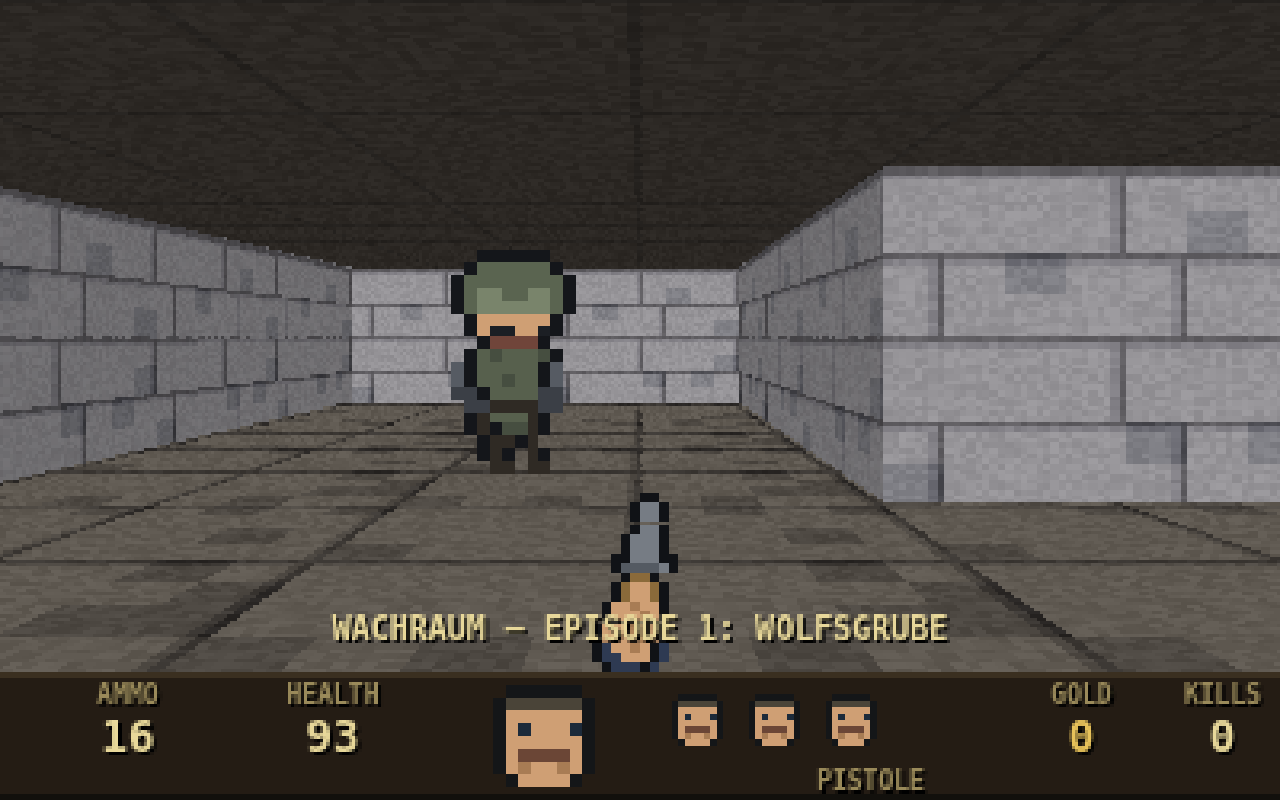
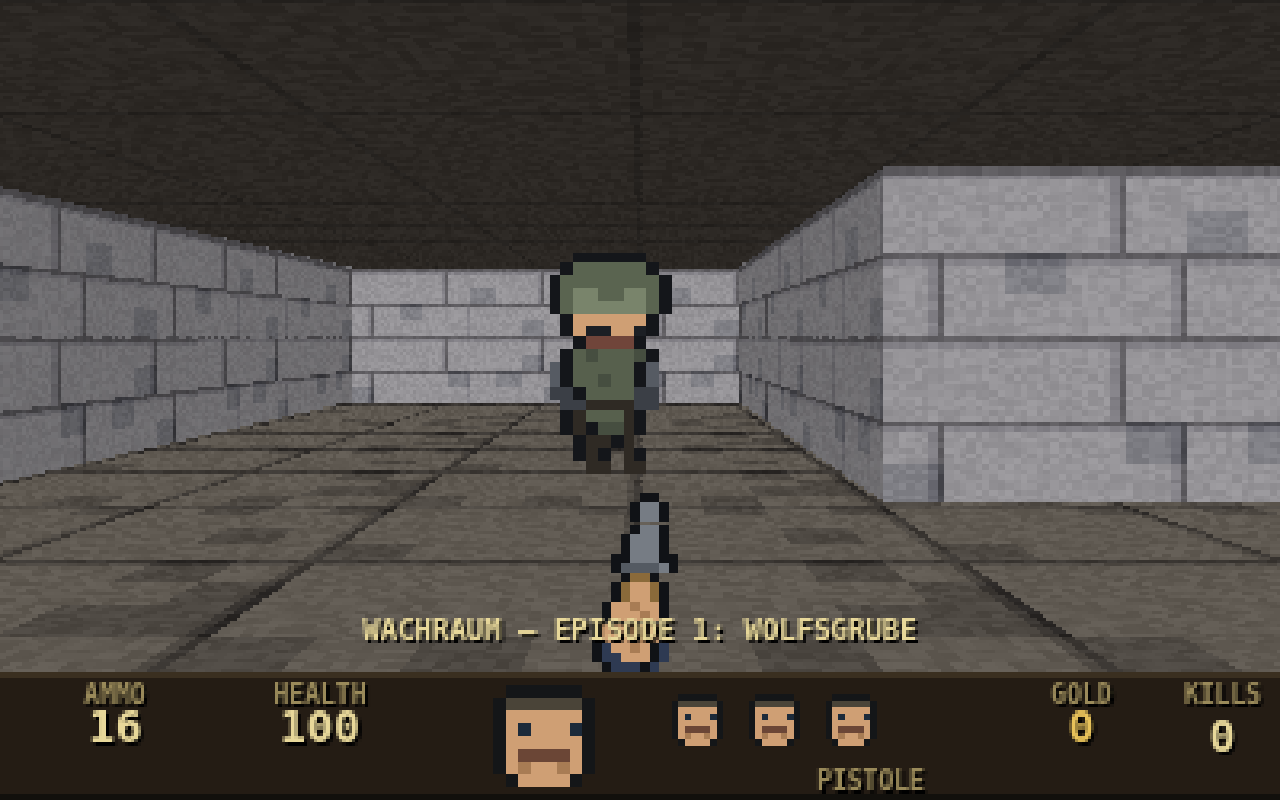
Wolfenstein 3D mobile fix: portrait phones now get the whole screen instead of a letterboxed strip — internal resolution tracks screen aspect (pickRes/applyAutoRes, resize-aware), tall displays switch to a pinhole-consistent camera (PLANE/VF) so walls and sprites keep square proportions, HUD bar hei

diff --git a/examples/wolfenstein/index.html b/examples/wolfenstein/index.html
@@ -60,14 +60,45 @@ const STARTMAP=clamp(parseInt(params.get('map')||'0',10)||0,0,2);
 // ---------- canvas / buffers ----------
 const cv=document.getElementById('c'), ctx=cv.getContext('2d');
 let W=400,H=250,BAR=40,VH=H-BAR;
+let PLANE=0.66,VF=210;
 let img,buf32,zbuf;
 function setRes(w,h){
-  W=w;H=h;BAR=Math.round(H*0.16);VH=H-BAR;
+  W=w;H=h;
+  BAR=Math.round(Math.min(H*0.16,W*0.20)); // keep the bar proportional to the narrow axis
+  if(BAR<28)BAR=28;
+  VH=H-BAR;
+  // on tall screens use a pinhole-consistent camera (equal horizontal/vertical
+  // focal lengths) so nothing stretches; wide displays keep the classic look
+  const tall=VH>W*1.3;
+  PLANE=tall?clamp(W/VH,0.35,0.9):0.66;
+  VF=tall?VH/2:VH;
   cv.width=W;cv.height=H;
   img=ctx.createImageData(W,H);buf32=new Uint32Array(img.data.buffer);
   zbuf=new Float32Array(W);
 }
-if(FORCE_RES>=200)setRes(FORCE_RES,Math.round(FORCE_RES*0.625));else setRes(400,250);
+// pick an internal resolution matching the screen's aspect, so portrait
+// phones fill the whole screen instead of letterboxing into a tiny strip
+let qK=1; // quality step: 1, then 0.64 when frames run slow
+function pickRes(k){
+  const ar=clamp(window.innerWidth/Math.max(1,window.innerHeight),0.4,2.2);
+  let w=Math.round(400*k),h=Math.round(w/ar);
+  if(h>520*k){h=Math.round(520*k);w=Math.round(h*ar);}
+  if(w*h>112000*k*k){const f=Math.sqrt(112000*k*k/(w*h));w=Math.round(w*f);h=Math.round(h*f);}
+  return[w,h];
+}
+function applyAutoRes(){const[w,h]=pickRes(qK);setRes(w,h);}
+if(FORCE_RES>=200)setRes(FORCE_RES,Math.round(FORCE_RES*0.625));else applyAutoRes();
+let rzT=0;
+window.addEventListener('resize',()=>{
+  if(FORCE_RES>=200)return;
+  clearTimeout(rzT);rzT=setTimeout(applyAutoRes,120);
+});
+// screen coords -> canvas buffer coords (for touch overlays)
+function canvasPt(cx,cy){
+  const r=cv.getBoundingClientRect();
+  const s=Math.min(r.width/W,r.height/H);
+  return[(cx-r.left-(r.width-W*s)/2)/s,(cy-r.top-(r.height-H*s)/2)/s];
+}
 
 // ---------- textures (64x64 Uint32) ----------
 const TS=64;
@@ -666,7 +697,7 @@ function computeFlow(){
 }
 
 // ---------- audio ----------
-let AC=null,master=null,dbg={audioErr:'',shots:0};
+let AC=null,master=null,dbg={audioErr:'',shots:0,freeze:false};
 function audioInit(){
   if(AC)return;
   try{
@@ -742,6 +773,14 @@ window.addEventListener('mouseup',()=>{mouse.down=false;});
 const isTouch=('ontouchstart'in window)||navigator.maxTouchPoints>0;
 if(isTouch)document.body.classList.add('touch');
 const stick={id:-1,ox:0,oy:0,dx:0,dy:0}, look={id:-1,lx:0};
+function stickSet(t){
+  const R=Math.max(48,innerWidth*0.16);
+  let dx=(t.clientX-stick.ox)/R, dy=(t.clientY-stick.oy)/R;
+  const m=Math.hypot(dx,dy);
+  if(m>1){dx/=m;dy/=m;}
+  if(m<0.16){dx=0;dy=0;} // dead zone so a resting thumb doesn't creep
+  stick.dx=dx;stick.dy=dy;
+}
 cv.addEventListener('touchstart',e=>{
   if(state==='boot'){start();return;}
   for(const t of e.changedTouches){
@@ -752,10 +791,8 @@ cv.addEventListener('touchstart',e=>{
 },{passive:false});
 cv.addEventListener('touchmove',e=>{
   for(const t of e.changedTouches){
-    if(t.identifier===stick.id){
-      stick.dx=clamp((t.clientX-stick.ox)/(innerWidth*0.08),-1,1);
-      stick.dy=clamp((t.clientY-stick.oy)/(innerWidth*0.08),-1,1);
-    }else if(t.identifier===look.id){P.a+=(t.clientX-look.lx)*0.006;look.lx=t.clientX;}
+    if(t.identifier===stick.id)stickSet(t);
+    else if(t.identifier===look.id){P.a+=(t.clientX-look.lx)*0.006;look.lx=t.clientX;}
   }
   e.preventDefault();
 },{passive:false});
@@ -767,10 +804,23 @@ function touchEnd(e){
 }
 cv.addEventListener('touchend',touchEnd);cv.addEventListener('touchcancel',touchEnd);
 const btnFire=document.getElementById('btnFire'), btnUse=document.getElementById('btnUse');
-let fireHeld=false;
-btnFire.addEventListener('touchstart',e=>{e.preventDefault();audioInit();fireHeld=true;fireTapT=0.4;},{passive:false});
-btnFire.addEventListener('touchend',e=>{e.preventDefault();fireHeld=false;},{passive:false});
-btnUse.addEventListener('touchstart',e=>{e.preventDefault();if(state==='play')useAction();},{passive:false});
+let fireHeld=false, fireId=-1;
+btnFire.addEventListener('touchstart',e=>{
+  e.preventDefault();audioInit();
+  if(state==='boot'){start();return;}
+  fireHeld=true;fireTapT=0.4;
+  if(e.changedTouches.length)fireId=e.changedTouches[0].identifier;
+},{passive:false});
+btnFire.addEventListener('touchend',e=>{e.preventDefault();if(e.changedTouches.length&&e.changedTouches[0].identifier!==fireId)return;fireHeld=false;},{passive:false});
+// a cancelled gesture (iOS hijack) must never leave the trigger stuck
+window.addEventListener('touchcancel',e=>{
+  for(const t of e.changedTouches)if(t.identifier===fireId){fireHeld=false;fireId=-1;}
+});
+btnUse.addEventListener('touchstart',e=>{
+  e.preventDefault();audioInit();
+  if(state==='boot'){start();return;}
+  useAction();
+},{passive:false});
 document.getElementById('startBtn').addEventListener('click',start);
 
 // ---------- game state ----------
@@ -1010,8 +1060,7 @@ function stepEnemy(e,dx,dy){
 let dirX=1,dirY=0,plX=0,plY=0;
 function renderWorld(t){
   dirX=Math.cos(P.a);dirY=Math.sin(P.a);
-  const fov=0.66;
-  const planeX=-dirY*fov,planeY=dirX*fov;
+  const planeX=-dirY*PLANE,planeY=dirX*PLANE;
   const flick=1+Math.sin(t*7.3)*0.015+Math.sin(t*3.1)*0.02;
   const horizon=VH*0.5;
   // floor + ceiling cast
@@ -1019,7 +1068,7 @@ function renderWorld(t){
     const dy=y-horizon;
     if(dy===0){continue;}
     const below=y>horizon;
-    const rowDist=(0.5*VH)/Math.abs(dy);
+    const rowDist=(0.5*VF)/Math.abs(dy);
     const tex=below?texFloorBmp:texCeilBmp;
     const rdx0=dirX-planeX,rdy0=dirY-planeY;
     const rdx1=dirX+planeX,rdy1=dirY+planeY;
@@ -1051,7 +1100,7 @@ function renderWorld(t){
     }
     const dist=side===0?sdx-ddx:sdy-ddy;
     zbuf[x]=dist;
-    let lineH=VH/Math.max(0.0001,dist);
+    let lineH=VF/Math.max(0.0001,dist);
     let y0=horizon-lineH/2, y1=horizon+lineH/2;
     const ty0=y0<0?0:y0|0, ty1=y1>VH?VH:y1|0;
     const wallX=side===0?P.y+dist*rdy:P.x+dist*rdx;
@@ -1097,15 +1146,15 @@ function renderWorld(t){
 }
 function drawSprite(tex,ex,ey,sc,offY,flash,flick){
   const sx=ex-P.x,sy=ey-P.y;
-  const planeX=-dirY*0.66,planeY=dirX*0.66;
+  const planeX=-dirY*PLANE,planeY=dirX*PLANE;
   const invDet=1/(planeX*dirY-dirX*planeY);
   const tX=invDet*(dirY*sx-dirX*sy);
   const tY=invDet*(-planeY*sx+planeX*sy);
   if(tY<0.15)return;
   const scrX=(W*0.5)*(1+tX/tY);
-  const sizeY=Math.abs(VH/tY)*sc;
+  const sizeY=Math.abs(VF/tY)*sc;
   const sizeX=sizeY*(tex.w/tex.h);
-  const bot=VH*0.5+(0.5*VH)/tY;
+  const bot=VH*0.5+(0.5*VF)/tY;
   const top=bot-sizeY;
   const x0=Math.max(0,Math.ceil(scrX-sizeX/2)),x1=Math.min(W-1,Math.floor(scrX+sizeX/2));
   const y0=Math.max(0,Math.ceil(top)),y1=Math.min(VH-1,Math.floor(bot));
@@ -1125,7 +1174,7 @@ function drawSprite(tex,ex,ey,sc,offY,flash,flick){
 }
 function renderWeapon(t){
   const tex=P.gun===1?wpnMG:wpnPistol;
-  const s=P.gun===1?2.9:3.1;
+  const s=(P.gun===1?2.9:3.1)*(VH/210); // keep the gun the same share of the view in portrait
   const bob=Math.sin(P.bobT*2)*3*P.bobAmt;
   const kick=P.fireT>0.3?(P.gun?1:4):0;
   const wpx=tex.w*s,hpx=tex.h*s;
@@ -1143,7 +1192,7 @@ function renderWeapon(t){
   }
   if(gflash){
     // muzzle flash star near top of gun
-    const fx=Math.round(W*0.5+(P.gun===1?-W*0.18:0)),fy=Math.round(oy-2);
+    const fx=Math.round(W*0.5+(P.gun===1?-W*0.18:0)),fy=Math.round(oy-2*(VH/210));
     const r=6+Math.random()*5;
     for(let a=0;a<8;a++){
       const ang=a*Math.PI/4+Math.random();
@@ -1187,56 +1236,69 @@ function drawText(s,x,y,col,size){
   ctx.fillStyle=col;ctx.fillText(s,x,y);
 }
 function renderBar(t){
+  const narrow=W<320; // portrait phones: tighter columns, capped bar height
   const y0=VH;
   ctx.fillStyle='#241c14';ctx.fillRect(0,y0,W,BAR);
   ctx.fillStyle='#3a2f20';ctx.fillRect(0,y0,W,2);
   ctx.fillStyle='#12100c';ctx.fillRect(0,y0+BAR-2,W,2);
   const cy=y0+BAR*0.42;
+  const lab=Math.max(7,Math.round(BAR*0.2)),num=Math.round(BAR*0.34);
   ctx.textAlign='center';
-  drawText('AMMO',W*0.10,y0+10,'#9a8a5a',8);drawText(fmt(P.ammo),W*0.10,cy+8,'#e8d89a',Math.round(BAR*0.34));
-  drawText('HEALTH',W*0.26,y0+10,'#9a8a5a',8);drawText(fmt(Math.round(P.hp)),W*0.26,cy+8,P.hp<=25?'#e05040':'#e8d89a',Math.round(BAR*0.34));
-  drawText('GOLD',W*0.845,y0+10,'#9a8a5a',8);drawText(fmt(P.gold),W*0.845,cy+8,'#e8c25a',Math.round(BAR*0.34));
-  drawText('KILLS',W*0.955,y0+10,'#9a8a5a',8);drawText(fmt(P.kills),W*0.955,cy+8,'#e8d89a',Math.round(BAR*0.34));
+  drawText('AMMO',W*0.09,y0+Math.round(BAR*0.26),'#9a8a5a',lab);drawText(fmt(P.ammo),W*0.09,cy+Math.round(BAR*0.13),'#e8d89a',num);
+  drawText('HEALTH',W*0.25,y0+Math.round(BAR*0.26),'#9a8a5a',lab);drawText(fmt(Math.round(P.hp)),W*0.25,cy+Math.round(BAR*0.13),P.hp<=25?'#e05040':'#e8d89a',num);
+  if(!narrow)drawText('KILLS',W*0.955,y0+10,'#9a8a5a',8);
+  const gx=narrow?W*0.72:W*0.845;
+  drawText('GOLD',gx,y0+Math.round(BAR*0.26),'#9a8a5a',lab);drawText(fmt(P.gold),gx,cy+Math.round(BAR*0.13),'#e8c25a',num);
+  if(!narrow){drawText(fmt(P.kills),W*0.955,cy+8,'#e8d89a',Math.round(BAR*0.34));}
   // face
   let face=faceNorm;
   if(state==='dead'||P.hp<=0)face=faceDead;
   else if(P.hurtT>0.1)face=faceHit;
   else if(P.hp<=25)face=faceEvil;
-  const fs=Math.max(2,Math.floor((BAR-8)/faceNorm.h));
-  const fx=W*0.425-face.w*fs/2+(P.turnT?P.turnT*2:0);
+  const fs=Math.max(2,Math.floor(Math.min((BAR-8)/faceNorm.h,W*0.22/faceNorm.w)));
+  const fx=W*(narrow?0.46:0.425)-face.w*fs/2+(P.turnT?P.turnT*2:0);
   drawArtC(face,fx|0,y0+((BAR-face.h*fs)/2|0),fs);
   // lives as mini faces
-  const lf=Math.max(2,Math.round(BAR*0.06));
-  for(let i=0;i<Math.min(P.lives,4);i++)drawArtC(faceNorm,W*0.52+i*(faceNorm.w*lf+4)|0,y0+BAR*0.18|0,lf);
+  const lf=Math.max(2,Math.round(Math.min(BAR*0.06,fs*0.62)));
+  for(let i=0;i<Math.min(P.lives,narrow?2:4);i++)drawArtC(faceNorm,W*(narrow?0.56:0.52)+i*(faceNorm.w*lf+4)|0,y0+BAR*0.18|0,lf);
   // gold key icon
-  if(P.key)drawArtC(keyItem,W*0.345|0,y0+BAR*0.22|0,2);
+  if(P.key)drawArtC(keyItem,W*0.345|0,y0+BAR*0.22|0,narrow?1:2);
   // weapon name
-  drawText(P.gun===1?'KETTENGEWEHR':'PISTOLE',W*0.68,y0+BAR-3,'#9a8a5a',8);
+  drawText(P.gun===1?'KETTENGEWEHR':'PISTOLE',narrow?W*0.10:W*0.68,y0+BAR-Math.max(3,Math.round(BAR*0.08)),'#9a8a5a',lab);
   // message
   if(msgT>0){
     ctx.textAlign='center';
-    drawText(msgText,W*0.5,VH-10,'#e8d89a',Math.max(9,Math.round(W*0.024)));
+    drawText(msgText,W*0.5,VH-10,'#e8d89a',Math.max(9,Math.round(Math.min(W,VH)*0.035)));
   }
   ctx.textAlign='left';
 }
 function renderBoot(t){
   ctx.fillStyle='#0a0806';ctx.fillRect(0,0,W,H);
   ctx.textAlign='center';
-  const big=Math.round(W*0.072);
+  const portrait=H>W*1.15;
+  const big=Math.round(W*(portrait?0.085:0.072));
   ctx.font='bold '+big+'px monospace';
-  ctx.fillStyle='#000';ctx.fillText('WOLFENSTEIN',W/2+3,H*0.24+3);
-  ctx.fillStyle='#a8201c';ctx.fillText('WOLFENSTEIN',W/2,H*0.24);
+  ctx.fillStyle='#000';ctx.fillText('WOLFENSTEIN',W/2+3,H*(portrait?0.14:0.24)+3);
+  ctx.fillStyle='#a8201c';ctx.fillText('WOLFENSTEIN',W/2,H*(portrait?0.14:0.24));
   ctx.font='bold '+Math.round(big*0.8)+'px monospace';
-  ctx.fillStyle='#000';ctx.fillText('3D',W/2+3,H*0.24+big+3);
-  ctx.fillStyle='#e8c25a';ctx.fillText('3D',W/2,H*0.24+big);
-  drawText('EPISODE 1: WOLFSGRUBE — AN UNAUTHORISED CLONE',W/2,H*0.42,'#9a8a5a',Math.round(W*0.022));
-  const s=Math.max(2,Math.round(W/110));
-  drawArtC(guardStand,W*0.28-guardStand.w*s/2|0,H*0.5,Math.round(s*1.6));
-  drawArtC(offStand,W*0.44-offStand.w*s/2|0,H*0.5,Math.round(s*1.6));
-  drawArtC(dogA,W*0.62-dogA.w*s/2|0,H*0.5+20,Math.round(s*2.2));
-  drawArtC(goldBars,W*0.74-goldBars.w*s/2|0,H*0.5+34,Math.round(s*2));
-  if(Math.floor(t*2)%2)drawText('CLICK OR PRESS ANY KEY TO BEGIN',W/2,H*0.82,'#e8d89a',Math.round(W*0.026));
-  drawText('MOVE WASD/ARROWS  TURN MOUSE/ARROWS  FIRE CLICK/SPACE  USE E  —  STRAFE Q/A',W/2,H*0.9,'#6a5f45',Math.round(W*0.019));
+  ctx.fillStyle='#000';ctx.fillText('3D',W/2+3,H*(portrait?0.14:0.24)+big+3);
+  ctx.fillStyle='#e8c25a';ctx.fillText('3D',W/2,H*(portrait?0.14:0.24)+big);
+  const sub=Math.round(W*(portrait?0.03:0.022));
+  drawText(portrait?'EPISODE 1: WOLFSGRUBE':'EPISODE 1: WOLFSGRUBE — AN UNAUTHORISED CLONE',W/2,H*(portrait?0.24:0.42),'#9a8a5a',sub);
+  const s=Math.max(2,Math.round(W/(portrait?120:110)));
+  const rowY=H*(portrait?0.34:0.5);
+  drawArtC(guardStand,W*0.28-guardStand.w*s/2|0,rowY,Math.round(s*1.6));
+  drawArtC(offStand,W*0.44-offStand.w*s/2|0,rowY,Math.round(s*1.6));
+  drawArtC(dogA,W*0.62-dogA.w*s/2|0,rowY+20,Math.round(s*2.2));
+  drawArtC(goldBars,W*0.74-goldBars.w*s/2|0,rowY+34,Math.round(s*2));
+  if(Math.floor(t*2)%2)drawText(portrait?'TAP TO BEGIN':'CLICK OR PRESS ANY KEY TO BEGIN',W/2,H*0.82,'#e8d89a',Math.round(W*(portrait?0.04:0.026)));
+  const hh=Math.round(W*(portrait?0.028:0.019));
+  if(portrait){
+    drawText('DRAG LEFT: MOVE   DRAG RIGHT: TURN',W/2,H*0.9,'#6a5f45',hh);
+    drawText('FIRE AND USE ARE THE BUTTONS',W/2,H*0.94,'#6a5f45',hh);
+  }else{
+    drawText('MOVE WASD/ARROWS  TURN MOUSE/ARROWS  FIRE CLICK/SPACE  USE E  —  STRAFE Q/A',W/2,H*0.9,'#6a5f45',hh);
+  }
   ctx.textAlign='left';
 }
 function renderLevelClear(t){
@@ -1271,10 +1333,11 @@ window.__test={
   open:()=>{for(let i=0;i<MW*MH;i++)if(grid[i]>=5&&grid[i]<=7)grid[i]=0;},
   next:()=>{if(state==='play')clearLevel();},
   state:()=>state,
+  freeze:v=>{dbg.freeze=!!v;},
   audioState:()=>AC?AC.state:'none',
   audioErr:()=>dbg.audioErr||'',
 };
-window.__perf={fps:0,frame:0,level:0,enemies:0,hp:100,kills:0,gold:0,ammo:0,mean:0,var:0,state:'boot',audio:'off',pos:[0,0],res:0};
+window.__perf={fps:0,frame:0,level:0,enemies:0,hp:100,kills:0,gold:0,ammo:0,mean:0,var:0,state:'boot',audio:'off',pos:[0,0],a:0,res:0};
 let last=performance.now(),ema=16.7,probeN=0,qCool=0;
 function frame(now){
   requestAnimationFrame(frame);
@@ -1284,16 +1347,15 @@ function frame(now){
   ema=ema*0.9+dt*1000*0.1;
   qCool-=dt;
   if(!FORCE_RES){
-    if(ema>34&&W>320&&qCool<=0){setRes(320,200);qCool=5;}
-    else if(ema>48&&W>256&&qCool<=0){setRes(256,160);qCool=5;}
-    else if(ema<21&&W<400&&qCool<=0){setRes(400,250);qCool=5;}
+    if(ema>36&&qK>0.9&&qCool<=0){qK=0.64;applyAutoRes();qCool=5;}
+    else if(ema<20&&qK<0.9&&qCool<=0){qK=1;applyAutoRes();qCool=5;}
   }
   msgT=Math.max(0,msgT-dt);
   if(state==='boot'){
     if(AUTOSTART)start();
     else{renderBoot(t);return;}
   }
-  if(state==='play'){updatePlayer(dt);updateEnemies(dt);}
+  if(state==='play'&&!dbg.freeze){updatePlayer(dt);updateEnemies(dt);}
   if(state==='level'){stateT+=dt;if(stateT>2.8)nextLevel();}
   if(state==='dead'){stateT+=dt;if(stateT>2.2)respawn();}
   if(state==='over'){if(stateT>3){loadLevel(STARTMAP);resetPlayer(true);state='play';}}
@@ -1319,7 +1381,7 @@ function frame(now){
     window.__perf={fps:Math.round(1000/Math.max(1,ema)),frame:probeN,level,
       enemies:enemies.filter(e=>e.st<3).length,hp:Math.round(P.hp),kills:P.kills,
       gold:P.gold,ammo:P.ammo,mean:Math.round(mean),var:Math.round(m2-mean*mean),
-      state,pos:[+P.x.toFixed(2),+P.y.toFixed(2)],res:W,shots:dbg.shots,
+      state,pos:[+P.x.toFixed(2),+P.y.toFixed(2)],a:+P.a.toFixed(3),res:W,shots:dbg.shots,
       audio:AC?AC.state:'off',audioErr:dbg.audioErr||''};
   }
 }
